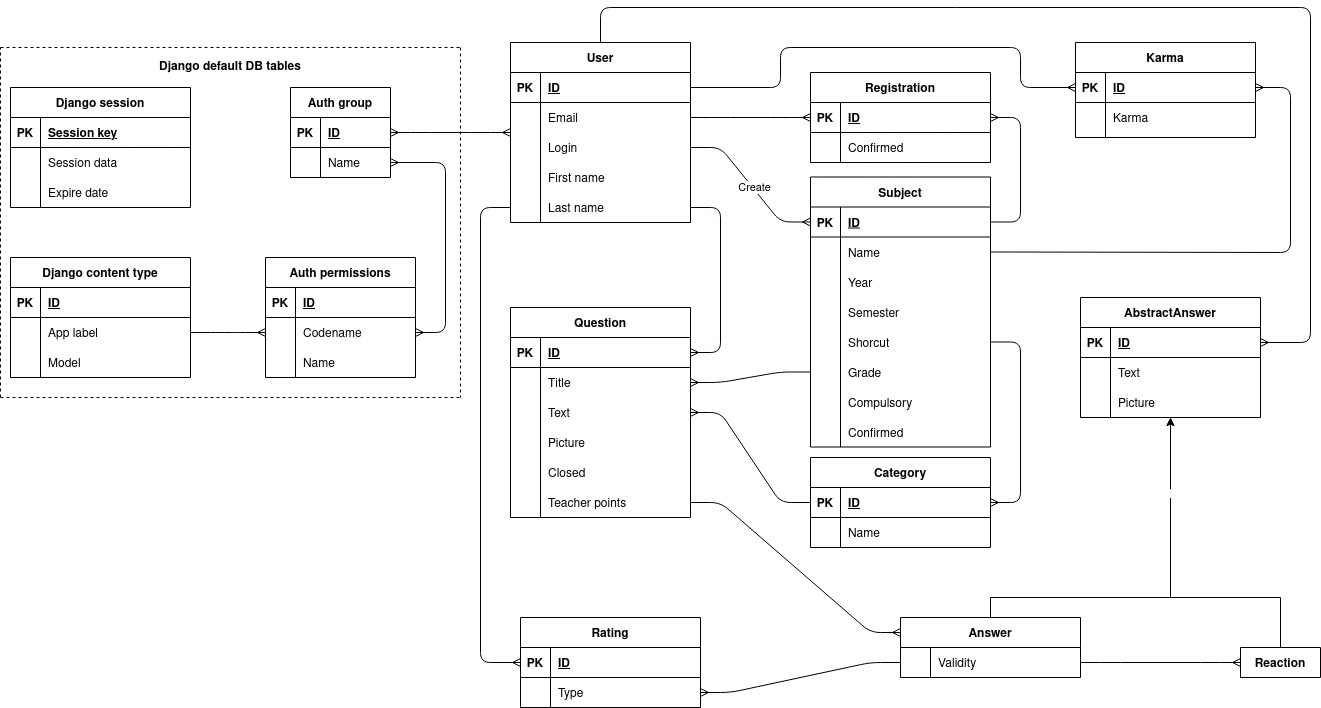
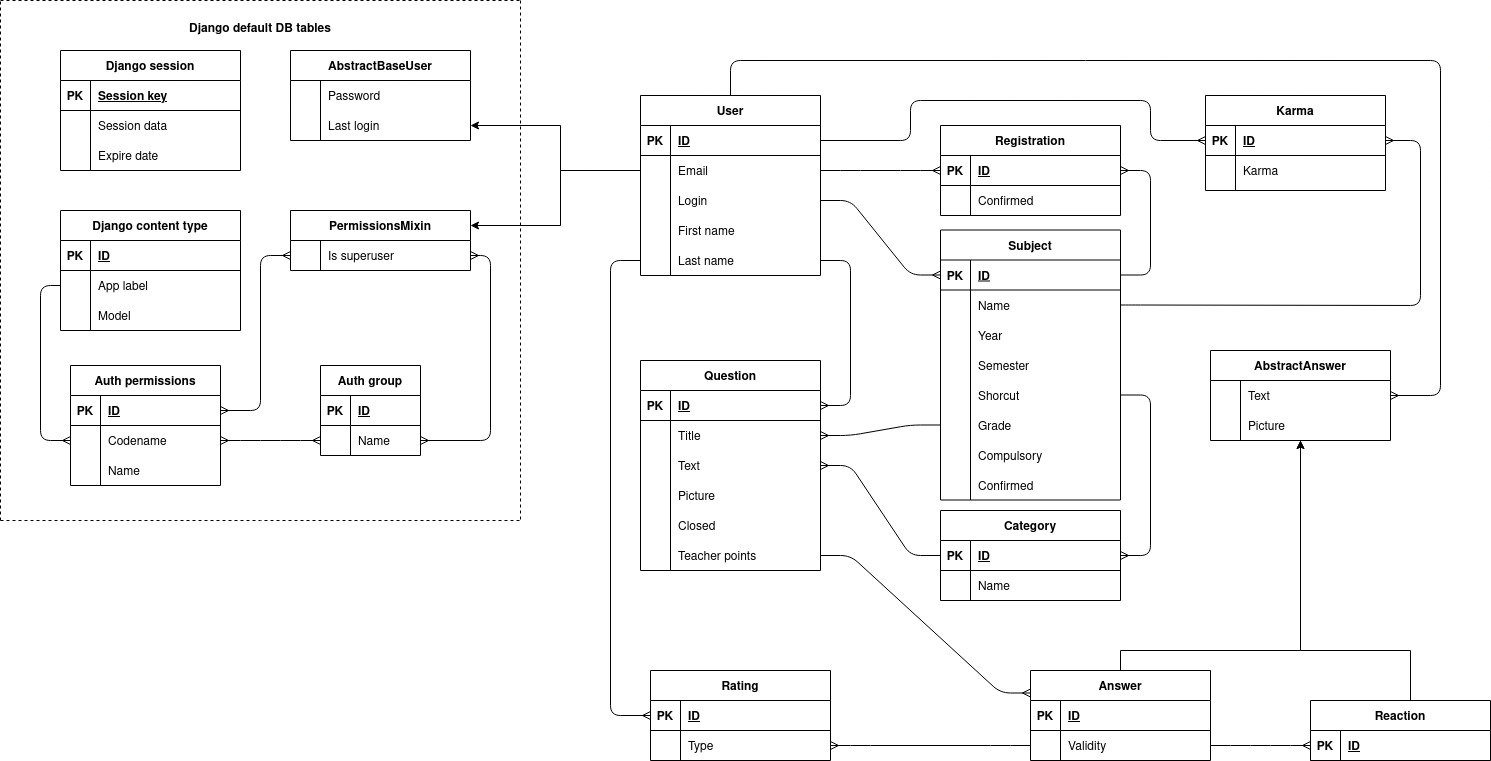
Change ER diagram and remove unnecessary requirements

diff --git a/docs/doc.html b/docs/doc.html
@@ -40,7 +40,7 @@
             <tr><th>Login</th><th>Heslo</th><th>Role</th></tr>
             <tr><td>xnovak00</td><td>filip_novak</td><td>Administrátor</td></tr>
             <tr><td>xsechr00</td><td>marek_sechra</td><td>Moderátor</td></tr>
-            <tr><td>xsolic00</td><td>filip_solich</td><td>Učitel předmětu IIS 2021/2022</td></tr>
+            <tr><td>xsolic00</td><td>filip_solich</td><td>Učitel předmětu IIS 2021/2022 / Moderátor</td></tr>
             <tr><td>xvokal00</td><td>nejakeheslo1</td><td>Student předmětu IIS 2021/2022</td></tr>
         </table>
 
@@ -61,6 +61,7 @@
         </ul>
 
         <h3>Postup instalace</h3>
+        Rozbalení projektu, vytvoření nové databáze se skupinou pro moderatory
         <script src="https://gist.github.com/FilipSolich/d3c42d7e32ae4b3c06c0f00f7c95182c.js"></script>
 
         <!-- TODO doplnit popis a smazat -->

diff --git a/README.md b/README.md
@@ -15,18 +15,16 @@
 ```shell
 $ git clone git@github.com:FilipSolich/IIS.git
 $ cd IIS
-$ python -m venv .env
-$ source .env/bin/activate
+$ python -m venv .venv
+$ source .venv/bin/activate
 $ pip install -r requirements.txt
-$ cd fituska
 $ python manage.py makemigrations
 $ python manage.py migrate
 $ python manage.py creategroups
-$ python manage.py shell < db_import.py
 $ python manage.py runserver
 ```
 
-## Nový import dat do databaze
+# Import dat do DB
 
 ```shell
 $ python manage.py loaddata db.json

diff --git a/TODO.md b/TODO.md
@@ -12,3 +12,5 @@
 
 - Import better data
 - Deploy on heroku
+
+- Add AbstractBaseUser to ER
